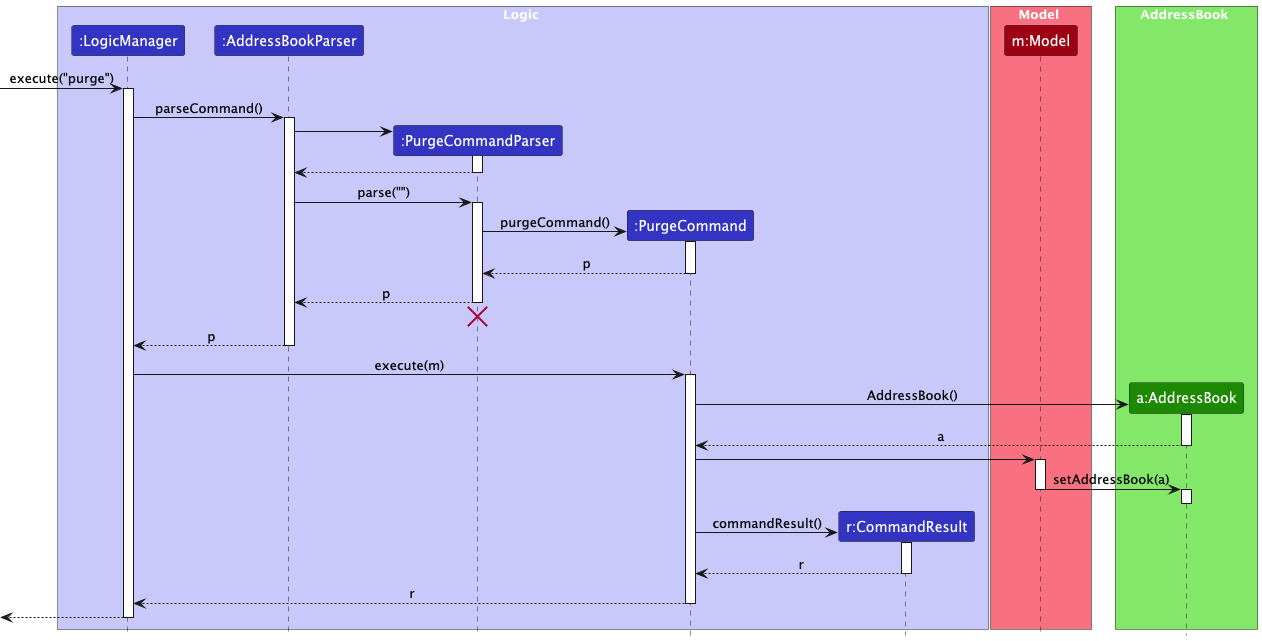
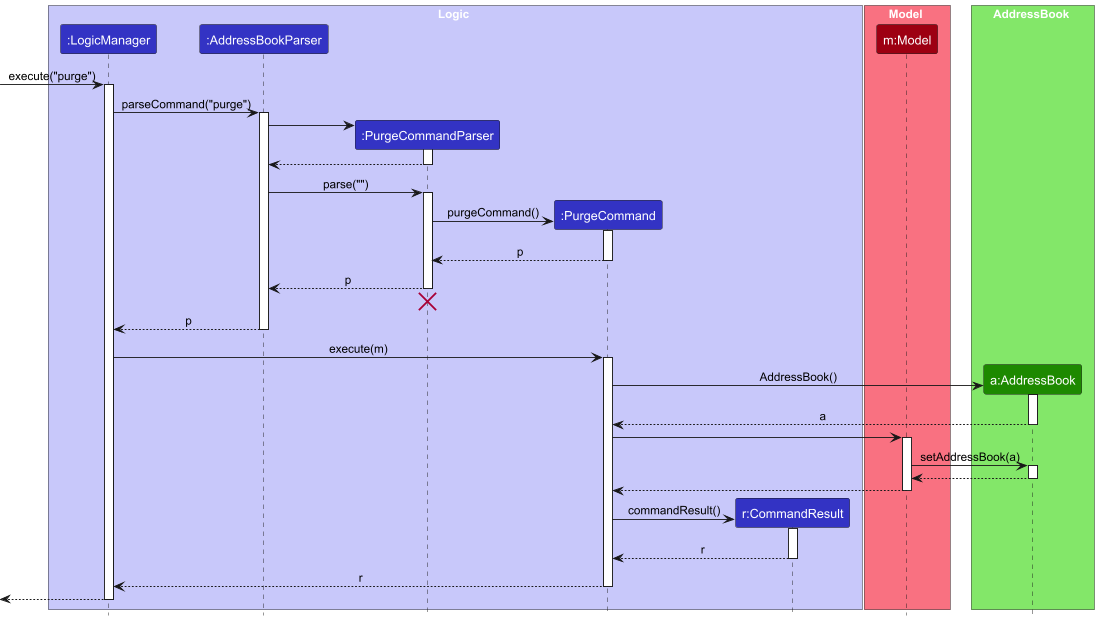
Minor fix for UML diagrams and Developer Guide

Changed region(s): [[0.0, 0.0, 1.0, 1.0], [0.4335, 0.3984, 0.4954, 0.429]]

diff --git a/docs/DeveloperGuide.md b/docs/DeveloperGuide.md
@@ -11,7 +11,6 @@ title: Developer Guide
 
 * This project is based on the [AddressBook-Level3 project](https://github.com/se-edu/addressbook-level3) created by the [SE-EDU initiative](https://se-education.org).
 * `ColorUtil:isLightColor` is slightly adopted from the **StackOverflow** discussions [here](https://stackoverflow.com/a/14714716).
-* {list here sources of all reused/adapted ideas, code, documentation, and third-party libraries -- include links to the original source as well}
 
 --------------------------------------------------------------------------------------------------------------------
 
@@ -38,7 +37,7 @@ Given below is a quick overview of main components and how they interact with ea
 
 **Main components of the architecture**
 
-**`Main`** (consisting of classes [`Main`](https://github.com/se-edu/addressbook-level3/tree/master/src/main/java/seedu/address/Main.java) and [`MainApp`](https://github.com/se-edu/addressbook-level3/tree/master/src/main/java/seedu/address/MainApp.java)) is in charge of the app launch and shut down.
+**`Main`** (consisting of classes [`Main`](https://github.com/AY2425S2-CS2103-F15-2/tp/blob/master/src/main/java/seedu/address/Main.java) and [`MainApp`](https://github.com/AY2425S2-CS2103-F15-2/tp/blob/master/src/main/java/seedu/address/MainApp.java)) is in charge of the app launch and shut down.
 * At app launch, it initializes the other components in the correct sequence, and connects them up with each other.
 * At shut down, it shuts down the other components and invokes cleanup methods where necessary.
 
@@ -70,13 +69,13 @@ The sections below give more details of each component.
 
 ### UI component
 
-The **API** of this component is specified in [`Ui.java`](https://github.com/se-edu/addressbook-level3/tree/master/src/main/java/seedu/address/ui/Ui.java)
+The **API** of this component is specified in [`Ui.java`](https://github.com/AY2425S2-CS2103-F15-2/tp/blob/master/src/main/java/seedu/address/ui/Ui.java)
 
 ![Structure of the UI Component](images/UiClassDiagram.png)
 
 The UI consists of a `MainWindow` that is made up of parts e.g.`CommandBox`, `ResultDisplay`, `PersonListPanel`, `StatusBarFooter` etc. All these, including the `MainWindow`, inherit from the abstract `UiPart` class which captures the commonalities between classes that represent parts of the visible GUI.
 
-The `UI` component uses the JavaFx UI framework. The layout of these UI parts are defined in matching `.fxml` files that are in the `src/main/resources/view` folder. For example, the layout of the [`MainWindow`](https://github.com/se-edu/addressbook-level3/tree/master/src/main/java/seedu/address/ui/MainWindow.java) is specified in [`MainWindow.fxml`](https://github.com/se-edu/addressbook-level3/tree/master/src/main/resources/view/MainWindow.fxml)
+The `UI` component uses the JavaFx UI framework. The layout of these UI parts are defined in matching `.fxml` files that are in the `src/main/resources/view` folder. For example, the layout of the [`MainWindow`](https://github.com/AY2425S2-CS2103-F15-2/tp/blob/master/src/main/java/seedu/address/ui/MainWindow.java) is specified in [`MainWindow.fxml`](https://github.com/AY2425S2-CS2103-F15-2/tp/blob/master/src/main/resources/view/MainWindow.fxml)
 
 The `UI` component,
 
@@ -87,7 +86,7 @@ The `UI` component,
 
 ### Logic component
 
-**API** : [`Logic.java`](https://github.com/se-edu/addressbook-level3/tree/master/src/main/java/seedu/address/logic/Logic.java)
+**API** : [`Logic.java`](https://github.com/AY2425S2-CS2103-F15-2/tp/blob/master/src/main/java/seedu/address/logic/Logic.java)
 
 Here's a (partial) class diagram of the `Logic` component:
 
@@ -117,7 +116,7 @@ How the parsing works:
 * All `XYZCommandParser` classes (e.g., `AddCommandParser`, `DeleteCommandParser`, ...) inherit from the `Parser` interface so that they can be treated similarly where possible e.g, during testing.
 
 ### Model component
-**API** : [`Model.java`](https://github.com/se-edu/addressbook-level3/tree/master/src/main/java/seedu/address/model/Model.java)
+**API** : [`Model.java`](https://github.com/AY2425S2-CS2103-F15-2/tp/blob/master/src/main/java/seedu/address/model/Model.java)
 
 <img src="images/ModelClassDiagram.png" width="450" />
 
@@ -129,7 +128,7 @@ The `Model` component,
 * stores a `UserPref` object that represents the user’s preferences. This is exposed to the outside as a `ReadOnlyUserPref` objects.
 * does not depend on any of the other three components (as the `Model` represents data entities of the domain, they should make sense on their own without depending on other components)
 
-<div markdown="span" class="alert alert-info">:information_source: **Note:** An alternative (arguably, a more OOP) model is given below. It has a `Tag` list in the `AddressBook`, which `Person` references. This allows `AddressBook` to only require one `Tag` object per unique tag, instead of each `Person` needing their own `Tag` objects.<br>
+<div markdown="span" class="alert alert-info">:information_source: **Potential Improvement:** An alternative (arguably, a more OOP) model is given below. It has a `Tag` list in the `AddressBook`, which `Person` references. This allows `AddressBook` to only require one `Tag` object per unique tag, instead of each `Person` needing their own `Tag` objects.<br>
 
 <img src="images/BetterModelClassDiagram.png" width="450" />
 
@@ -138,7 +137,7 @@ The `Model` component,
 
 ### Storage component
 
-**API** : [`Storage.java`](https://github.com/se-edu/addressbook-level3/tree/master/src/main/java/seedu/address/storage/Storage.java)
+**API** : [`Storage.java`](https://github.com/AY2425S2-CS2103-F15-2/tp/blob/master/src/main/java/seedu/address/storage/Storage.java)
 
 <img src="images/StorageClassDiagram.png" width="550" />
 
@@ -642,14 +641,14 @@ Given below are instructions to test the app manually.
 
     1. Download the jar file and copy into an empty folder
 
-    2. Double-click the jar file.<br>
+    2. Open a command terminal, `cd` into the folder you put the jar file in, and use `java -jar tutorsynch.jar` command to run the application.<br>
        **Expected**: Shows the GUI with a set of sample contacts. The window size may not be optimum.
 
 2. Saving window preferences
 
     1. Resize the window to an optimum size. Move the window to a different location. Close the window.
 
-    2. Re-launch the app by double-clicking the jar file.<br>
+    2. Re-launch the app by opening a command terminal, `cd` into the folder you put the jar file in, and use `java -jar tutorsynch.jar` command to run the application.<br>
        **Expected**: The most recent window size and location is retained.
 
 3. Launching multiple instances of the app
@@ -663,14 +662,14 @@ Given below are instructions to test the app manually.
 
     1. **Prerequisites**: Delete or rename the JSON file for student records and/or the parent directory before launching the app.
 
-    2. **Test case**: Double-click the jar file to launch the app.<br>
+    2. **Test case**: Open a command terminal, `cd` into the folder you put the jar file in, and use `java -jar tutorsynch.jar` command to run the application.<br>
        **Expected**: App detects the missing data file and/or directory and starts with a default list of persons. Only upon making changes to this list will the directory and/or JSON file be created.
 
 2. Launching app with corrupted data file
 
     1. **Prerequisites**: Modify the JSON file for student records to contain invalid or corrupted data.
 
-    2. **Test case**: Double-click the jar file to launch the app.<br>
+    2. **Test case**: Open a command terminal, `cd` into the folder you put the jar file in, and use `java -jar tutorsynch.jar` command to run the application.<br>
        **Expected**: App detects the corrupted data file and falls back to an empty state. A message is displayed notifying the user about the corrupted data and the fallback in the command line interface.
 
 3. App shutdown with unsaved changes

diff --git a/docs/UserGuide.md b/docs/UserGuide.md
@@ -20,9 +20,9 @@ can get your contact management or other administrative tasks done faster than t
 
 2. Download the latest `.jar` file from [here](https://github.com/AY2425S2-CS2103-F15-2/tp/releases).
 
-3. Copy the file to the folder you want to use as the _home folder_ for your AddressBook.
+3. Copy the file to the folder you want to use as the _home folder_ for your TutorSynch.
 
-4. Open a command terminal, `cd` into the folder you put the jar file in, and use the `java -jar addressbook.jar`
+4. Open a command terminal, `cd` into the folder you put the jar file in, and use the `java -jar tutorsynch.jar`
    command to run the application.<br>
    A GUI similar to the below should appear in a few seconds. Note how the app contains some sample data.<br>
    ![Ui](images/Ui.png)
